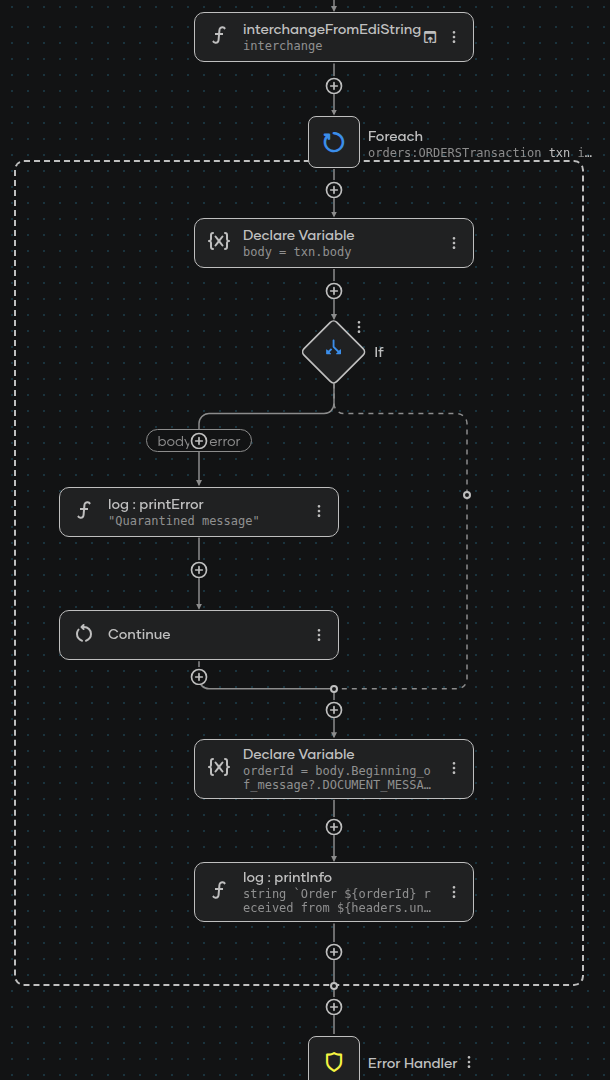
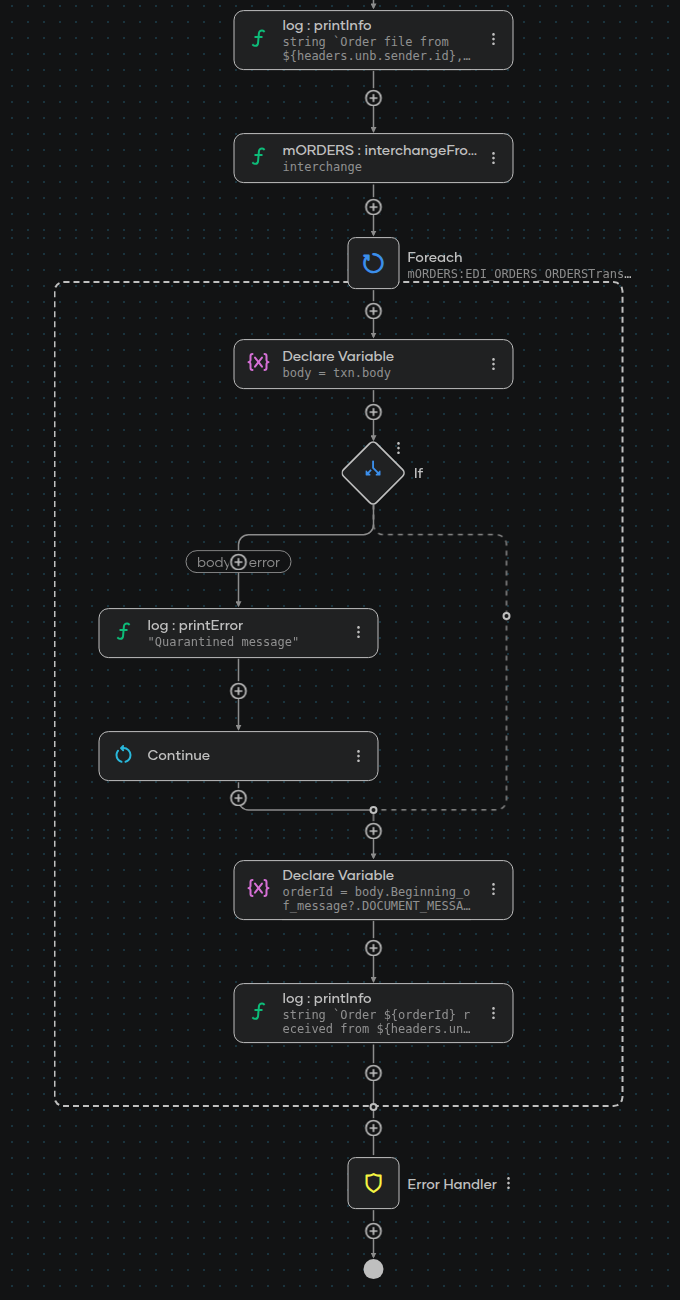
Parse the EDI orders with the prebuilt EDIFACT package
The sample interchange is a standard D03A ORDERS message, so Part 2 now
calls interchangeFromEdiString from ballerinax/edifact.d03a.supplychain
instead of generating a library from a partner-adjusted schema. The tip
and What's next point to generating a parser for partner variants.

diff --git a/en/docs/guides/business-use-cases/edi-purchase-order-processing.md b/en/docs/guides/business-use-cases/edi-purchase-order-processing.md
@@ -17,9 +17,9 @@ import TabItem from '@theme/TabItem';
 
 # Process Inbound EDI Purchase Orders from Trading Partners
 
-**Time:** About 40 minutes | **What you'll build:** An integration that picks up EDI purchase orders a trading partner drops on an SFTP server, identifies the sender from the envelope, and parses each order into typed Ballerina records, without losing the whole batch to one malformed message.
+**Time:** About 30 minutes | **What you'll build:** An integration that picks up EDI purchase orders a trading partner drops on an SFTP server, identifies the sender from the envelope, and parses each order into typed Ballerina records, without losing the whole batch to one malformed message.
 
-Trading partners send purchase orders as EDI files, usually by dropping them in an SFTP mailbox. Two things have to happen before any business logic runs: work out who sent the file, and turn the orders inside it into data the integration can use. This guide builds them in that order. The first needs no schema at all, and the second needs one that matches what the partner actually sends.
+Trading partners send purchase orders as EDI files, usually by dropping them in an SFTP mailbox. Two things have to happen before any business logic runs: work out who sent the file, and turn the orders inside it into data the integration can use. This guide builds them in that order. The first needs no schema at all, and the second uses a prebuilt package for the standard purchase order message.
 
 **Sample project:** [edi-purchase-order-processing](https://github.com/wso2/integration-samples/tree/main/integrator-default-profile/samples/edi-purchase-order-processing) is the finished project, ready to run.
 
@@ -29,32 +29,25 @@ Trading partners send purchase orders as EDI files, usually by dropping them in 
 /edi/inbox/*.edi ──▶ read the envelope headers ──▶ known partner? ──┬── no  ──▶ file moved to /edi/rejected
                      (no schema needed)                             │
                                                                     └── yes ──▶ parse the interchange ──┬──▶ orders processed
-                                                                               (generated library)      └──▶ malformed messages quarantined
+                                                                               (prebuilt package)       └──▶ malformed messages quarantined
                                                                                                          file moved to /edi/processed
 ```
 
-An EDI file is an *interchange*: an envelope (`UNB`/`UNZ` in EDIFACT, `ISA`/`IEA` in X12) wrapping one or more messages. The envelope carries the sender and recipient, so reading just those segments is enough to route the file. Only once the partner is known does the integration need a schema to read the orders themselves.
+An EDI file is an *interchange*: an envelope (`UNB`/`UNZ` in EDIFACT, `ISA`/`IEA` in X12) wrapping one or more messages. The envelope carries the sender and recipient, so reading just those segments is enough to route the file. Only once the partner is known does the integration need the message schema to read the orders themselves.
 
 ## Before you begin
 
 :::info Prerequisites
 
 - A working WSO2 Integrator environment. See [Setup](../../get-started/setup/setup.md).
-- The `bal edi` tool, pulled once per machine:
-
-    ```bash
-    bal tool pull edi
-    ```
-
-- The UN/EDIFACT D03A directory archive, downloaded from [UN/EDIFACT directory downloads](https://unece.org/trade/uncefact/unedifact/download). The tool builds the schema from the specification in this archive.
 - Docker, to run a local SFTP server that stands in for the partner's mailbox.
 
 :::
 
 :::tip
-For standard EDIFACT D03A message types, a [prebuilt EDIFACT package](../../reference/data-formats/edi.md#prebuilt-edifact-packages) reads a whole interchange with no code generation: envelope headers, batch splitting, and quarantining included. Use it whenever a partner sends the standard message unchanged. This guide generates its own library because step 6 tightens the schema to what the partner actually sends, which a prebuilt package cannot express.
+This guide reads the orders with the [prebuilt EDIFACT package](../../reference/data-formats/edi.md#prebuilt-edifact-packages) `ballerinax/edifact.d03a.supplychain`, which covers the standard D03A `ORDERS` message. When a partner deviates from the standard, or sends a message type or directory version no prebuilt package covers, [generate your own parser](../../develop-and-test/data-transformation/edi.md#generating-code-from-an-edifact-spec) from the specification and [adapt the schema to the partner](../../develop-and-test/data-transformation/edi.md#adapting-the-schema-to-a-trading-partner). The generated library has the same `interchangeFromEdiString` function, so the flow below stays the same.
 
-X12 specifications are licensed from ASC X12, so no X12 specification ships with the tool and no prebuilt X12 packages are published. The flow in this guide is identical for X12, starting from the schema your organization is licensed to use. If you need help with that, [contact us](https://wso2.com/contact/).
+X12 specifications are licensed from ASC X12, so no X12 specification ships with the tool and no prebuilt X12 packages are published. The flow is identical for X12, starting from a parser generated from the schema your organization is licensed to use. If you need help with that, [contact us](https://wso2.com/contact/).
 :::
 
 ### Start the SFTP server
@@ -254,71 +247,40 @@ service ftp:Service on ftpListener {
 
 ## Part 2: Parse the purchase orders
 
-Reading the orders themselves needs a schema. Generate one from the D03A specification, adapt it to what the partner actually sends, and generate a typed library from it.
+Reading the orders themselves needs the `ORDERS` message schema. The prebuilt `ballerinax/edifact.d03a.supplychain` package carries it, along with typed records for every segment and the envelope-aware `interchangeFromEdiString` function.
 
-### Step 6: Generate and adapt the schema
-
-From the project root, convert the `ORDERS` message type of the D03A directory, passing the archive you downloaded with `-i`:
-
-```bash
-bal edi convertEdifactSchema -v d03a -t ORDERS -i d03a.zip -o schema
-```
-
-This writes `schema/ORDERS.json`, named after the message type.
-
-Trading partners rarely send a standard message exactly as specified. Because the schema is written out as JSON before any code is generated, a partner's deviations are handled by editing that file. The specification itself is never touched.
-
-For the sample interchange, the partner sends a `QTY` segment on every line item, which the standard marks optional. Tighten it so a line item without a quantity is rejected rather than parsed as an order with no quantity. A converted schema declares its segments as references into `segmentDefinitions`, so the edit is on the reference inside the line-item segment group, the group whose first entry is `{"ref": "LIN", ...}`. Add `minOccurances` to its `QTY` entry:
-
-```json
-{"ref": "QTY", "tag": "Quantity", "minOccurances": 1, "maxOccurances": 99}
-```
-
-The fields most often adjusted are `delimiters`, `minOccurances` and `maxOccurances`, a field's `dataType`, and `ignoreSegments` for segments the partner adds that the integration does not care about. See [Adapting the schema to a trading partner](../../develop-and-test/data-transformation/edi.md#adapting-the-schema-to-a-trading-partner) for the full list.
-
-Keep the edited schema in version control next to the integration: it is the record of what that partner sends.
-
-### Step 7: Generate the library
-
-1. On the project overview, select **+ Add**, select **Library**, enter `orders` as the library name, and select **Add**.
-
-    <ThemedImage
-        alt="Add an Integration or Library page with Library selected and the library name set to orders"
-        sources={{
-            light: useBaseUrl('/img/guides/usecases/edi-purchase-order-processing/06-add-library.png'),
-            dark: useBaseUrl('/img/guides/usecases/edi-purchase-order-processing/06-add-library.png'),
-        }}
-    />
-
-2. In the terminal, move into the `orders` directory and generate the code from the edited schema:
-
-    ```bash
-    cd orders
-    bal edi codegen -i ../schema/ORDERS.json -o orders.bal
-    ```
-
-The library now holds a record type per segment, `fromEdiString` and `toEdiString` for a single message, and, because an EDIFACT schema carries an envelope, the envelope-aware `interchangeFromEdiString`, `interchangeToEdiString`, and `headersFromEdiString`.
-
-### Step 8: Parse the interchange and quarantine bad messages
-
-`interchangeFromEdiString` reads the whole envelope hierarchy. Envelope segments are fail-fast: a malformed `UNB` or `UNT` fails the call. Transaction bodies are **fail-safe**: a body the schema cannot read leaves its parse error on that transaction, typed `ORDERS|error`, and every other message in the interchange still arrives. That is what keeps one bad message from costing a batch: the good orders go on to be processed, and the bad one is quarantined with the reason attached.
+`interchangeFromEdiString` reads the whole envelope hierarchy. Envelope segments are fail-fast: a malformed `UNB` or `UNT` fails the call. Transaction bodies are **fail-safe**: a body the schema cannot read leaves its parse error on that transaction, typed `EDI_ORDERS_ORDERS|error`, and every other message in the interchange still arrives. That is what keeps one bad message from costing a batch: the good orders go on to be processed, and the bad one is quarantined with the reason attached.
 
 <Tabs>
 <TabItem value="ui" label="Visual Designer" default>
 
-1. Back in the `onFile` flow, after the **Log Info** node from step 5, select **+**, then **Call Function**. Under **Within Project**, in the **orders** section, select **interchangeFromEdiString**. Set **Edi Text** to the expression `ediText`, set **Result** to `interchange`, and select **Save**.
+## Step 6: Parse the interchange
+
+1. After the **Log Info** node from step 5, select **+**, then **Call Function**, and search for `ORDERS`. Under **Extended Library**, in the **edifact.d03a.supplychain.mORDERS** section, select **interchangeFromEdiString**. The package is pulled from Ballerina Central and imported the first time you use it.
 
     <ThemedImage
-        alt="Functions panel listing the generated orders library functions under Within Project, including interchangeFromEdiString"
+        alt="Functions panel searching for ORDERS, listing the edifact.d03a.supplychain.mORDERS functions under Extended Library, including interchangeFromEdiString"
         sources={{
-            light: useBaseUrl('/img/guides/usecases/edi-purchase-order-processing/07-within-project-functions.png'),
-            dark: useBaseUrl('/img/guides/usecases/edi-purchase-order-processing/07-within-project-functions.png'),
+            light: useBaseUrl('/img/guides/usecases/edi-purchase-order-processing/06-search-orders-package.png'),
+            dark: useBaseUrl('/img/guides/usecases/edi-purchase-order-processing/06-search-orders-package.png'),
         }}
     />
 
-2. Add a **Foreach** node over the collection `interchange.transactions`, with the variable `txn` of type `orders:ORDERSTransaction`.
-3. Inside the loop, add a **Declare Variable** node named `body` of type `orders:ORDERS|error` with the expression `txn.body`.
-4. Add an **If** node with the condition `body is error`. Inside its branch:
+2. Set **Edi Text** to the expression `ediText`, set **Result** to `interchange`, and select **Save**.
+
+    <ThemedImage
+        alt="interchangeFromEdiString form with Edi Text set to the ediText variable and the result named interchange of type mORDERS:EDI_ORDERS_ORDERSInterchange"
+        sources={{
+            light: useBaseUrl('/img/guides/usecases/edi-purchase-order-processing/07-parse-interchange.png'),
+            dark: useBaseUrl('/img/guides/usecases/edi-purchase-order-processing/07-parse-interchange.png'),
+        }}
+    />
+
+## Step 7: Process each order and quarantine bad messages
+
+1. Add a **Foreach** node over the collection `interchange.transactions`, with the variable `txn` of type `mORDERS:EDI_ORDERS_ORDERSTransaction`.
+2. Inside the loop, add a **Declare Variable** node named `body` of type `mORDERS:EDI_ORDERS_ORDERS|error` with the expression `txn.body`.
+3. Add an **If** node with the condition `body is error`. Inside its branch:
     1. Add a **Log Error** node with the message `Quarantined message`, the **Error** set to `body`, and an **Additional Values** entry with the key `reference` and the value `txn.transactionHeader.Message_header.message_reference_number`. This is the quarantine path.
 
         <ThemedImage
@@ -330,7 +292,7 @@ The library now holds a record type per segment, `fromEdiString` and `toEdiStrin
         />
 
     2. Add a **Continue** node, so the loop moves on to the next message.
-5. After the **If** node, still inside the loop, add the processing for a valid order. A **Declare Variable** node and a **Log Info** node are enough to see it working:
+4. After the **If** node, still inside the loop, add the processing for a valid order. A **Declare Variable** node and a **Log Info** node are enough to see it working:
     - `orderId` of type `string` with the expression `body.Beginning_of_message?.DOCUMENT_MESSAGE_IDENTIFICATION?.Document_identifier ?: ""`.
     - A **Log Info** node with the expression ``string `Order ${orderId} received from ${headers.unb.sender.id}` ``.
 
@@ -350,9 +312,7 @@ The library now holds a record type per segment, `fromEdiString` and `toEdiStrin
 import ballerina/edi;
 import ballerina/ftp;
 import ballerina/log;
-
-// The library generated in step 7.
-import supplier/orders;
+import ballerinax/edifact.d03a.supplychain.mORDERS;
 
 listener ftp:Listener ftpListener = new (host = "localhost", protocol = ftp:SFTP, port = 2222, auth = {credentials: {username: string `${sftpUsername}`, password: string `${sftpPassword}`}});
 
@@ -367,9 +327,9 @@ service ftp:Service on ftpListener {
                 return error(string `Unknown trading partner: ${headers.unb.sender.id}`);
             }
             log:printInfo(string `Order file from ${headers.unb.sender.id}, reference ${headers.unb.controlRef}`);
-            orders:ORDERSInterchange interchange = check orders:interchangeFromEdiString(ediText);
-            foreach orders:ORDERSTransaction txn in interchange.transactions {
-                orders:ORDERS|error body = txn.body;
+            mORDERS:EDI_ORDERS_ORDERSInterchange interchange = check mORDERS:interchangeFromEdiString(ediText);
+            foreach mORDERS:EDI_ORDERS_ORDERSTransaction txn in interchange.transactions {
+                mORDERS:EDI_ORDERS_ORDERS|error body = txn.body;
                 if body is error {
                     log:printError("Quarantined message", body, reference = txn.transactionHeader.Message_header.message_reference_number);
                     continue;
@@ -383,8 +343,6 @@ service ftp:Service on ftpListener {
     }
 }
 ```
-
-Replace `supplier` with the organization name of your project.
 
 </TabItem>
 </Tabs>
@@ -430,5 +388,5 @@ Replace `supplier` with the organization name of your project.
 ## What's next
 
 - **Pick files up from other places.** The same handler works on a [local directory](../../develop-and-test/integration-artifacts/file-driven-integration/local-files.md), and the [FTP/SFTP service](../../develop-and-test/integration-artifacts/file-driven-integration/ftp-sftp.md) supports FTPS and key-based authentication for real partner mailboxes. For partners that post EDI over HTTP, the parsing logic is unchanged: read the request body into `ediText`.
-- **Acknowledge the orders.** Trading partners usually expect a reply saying what was accepted and what was rejected. The quarantined messages from step 8 are exactly the input for an EDIFACT `APERAK`; see the [EDI acknowledgement example](https://github.com/ballerina-platform/module-ballerina-edi/tree/main/examples/edi-acknowledgement).
-- **Handle several formats at once.** Bundle the schemas for every message type a partner sends into one package with [`libgen`](../../develop-and-test/data-transformation/edi.md#building-a-reusable-library-package).
+- **Acknowledge the orders.** Trading partners usually expect a reply saying what was accepted and what was rejected. The quarantined messages from step 7 are exactly the input for an EDIFACT `APERAK`; see the [EDI acknowledgement example](https://github.com/ballerina-platform/module-ballerina-edi/tree/main/examples/edi-acknowledgement).
+- **Support a partner's own variant.** When a partner's messages deviate from the standard, [generate a parser](../../develop-and-test/data-transformation/edi.md#generating-code-from-an-edifact-spec) from the specification, [adapt the schema](../../develop-and-test/data-transformation/edi.md#adapting-the-schema-to-a-trading-partner) to what they send, and swap it in for the prebuilt package. Bundle the schemas for every message type a partner sends into one package with [`libgen`](../../develop-and-test/data-transformation/edi.md#building-a-reusable-library-package).
